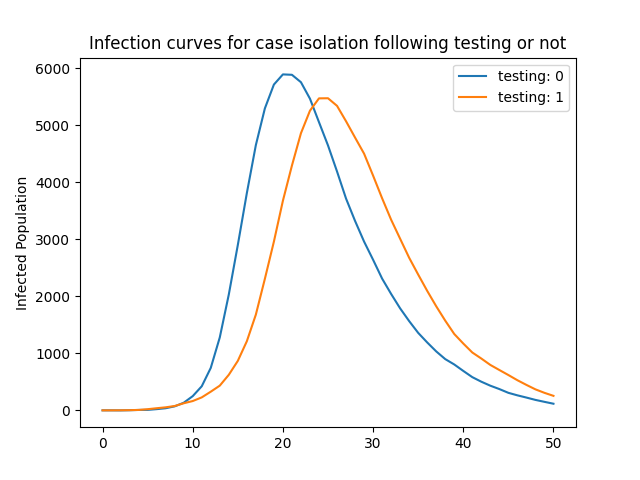
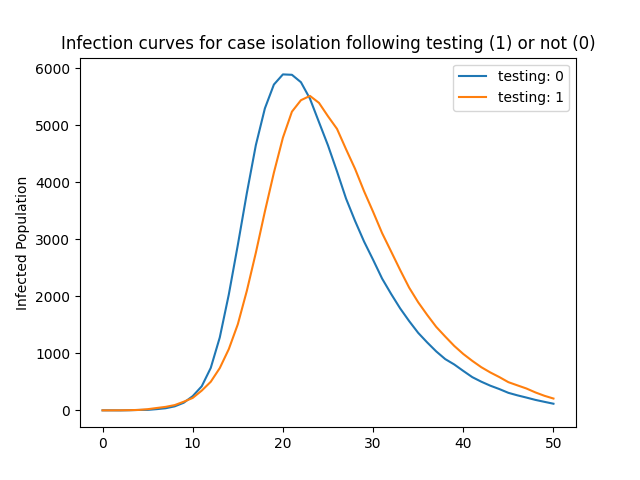
Clean up parameters and functions and more realistic testing parameters

diff --git a/pyEpiabm/pyEpiabm/sweep/host_progression_sweep.py b/pyEpiabm/pyEpiabm/sweep/host_progression_sweep.py
@@ -333,26 +333,20 @@ class HostProgressionSweep(AbstractSweep):
               intervention_params.keys():
                 testing_params = Parameters.instance().\
                     intervention_params['testing']
-                testing_prob_care_home = testing_params['testing_sympt'][0]
-                testing_prob_key_worker = testing_params['testing_sympt'][1]
-                testing_prob_general_pop = testing_params['testing_sympt'][2]
-                testing_type_care_home = testing_params['sympt_pcr'][0]
-                testing_type_key_worker = testing_params['sympt_pcr'][1]
-                testing_type_general_pop = testing_params['sympt_pcr'][2]
                 r = random.random()
                 type_r = random.random()
 
                 if (person.is_symptomatic() and
                    person.date_positive is None):
                     if person.care_home_resident:
-                        test_probability = testing_prob_care_home
-                        type_probability = testing_type_care_home
+                        test_probability = testing_params['testing_sympt'][0]
+                        type_probability = testing_params['sympt_pcr'][0]
                     elif person.key_worker:
-                        test_probability = testing_prob_key_worker
-                        type_probability = testing_type_key_worker
+                        test_probability = testing_params['testing_sympt'][1]
+                        type_probability = testing_params['testing_sympt'][2]
                     else:
-                        test_probability = testing_prob_general_pop
-                        type_probability = testing_type_general_pop
+                        test_probability = testing_params['testing_sympt'][2]
+                        type_probability = testing_params['sympt_pcr'][2]
 
                     if r < test_probability:
                         if type_r < type_probability:
@@ -388,18 +382,6 @@ class HostProgressionSweep(AbstractSweep):
                intervention_params.keys():
                 testing_params = Parameters.instance().\
                     intervention_params['testing']
-                testing_prob_care_home = testing_params[
-                    'testing_asympt_uninf'][0]
-                testing_prob_key_worker = testing_params[
-                    'testing_asympt_uninf'][1]
-                testing_prob_general_pop = testing_params[
-                    'testing_asympt_uninf'][2]
-                testing_type_care_home = testing_params[
-                    'asympt_uninf_pcr'][0]
-                testing_type_key_worker = testing_params[
-                    'asympt_uninf_pcr'][1]
-                testing_type_general_pop = testing_params[
-                    'asympt_uninf_pcr'][2]
                 for item in person_list:
                     cell = item[0]
                     person = item[1]
@@ -410,14 +392,20 @@ class HostProgressionSweep(AbstractSweep):
                     type_r = random.random()
 
                     if person.care_home_resident:
-                        test_probability = testing_prob_care_home
-                        type_probability = testing_type_care_home
+                        test_probability = testing_params[
+                            'testing_asympt_uninf'][0]
+                        type_probability = testing_params[
+                            'asympt_uninf_pcr'][0]
                     elif person.key_worker:
-                        test_probability = testing_prob_key_worker
-                        type_probability = testing_type_key_worker
+                        test_probability = testing_params[
+                            'testing_asympt_uninf'][1]
+                        type_probability = testing_params[
+                            'asympt_uninf_pcr'][1]
                     else:
-                        test_probability = testing_prob_general_pop
-                        type_probability = testing_type_general_pop
+                        test_probability = testing_params[
+                            'testing_asympt_uninf'][2]
+                        type_probability = testing_params[
+                            'asympt_uninf_pcr'][2]
 
                     if (r < test_probability and
                        person.date_positive is None):

diff --git a/pyEpiabm/pyEpiabm/intervention/disease_testing.py b/pyEpiabm/pyEpiabm/intervention/disease_testing.py
@@ -36,30 +36,30 @@ class DiseaseTesting(AbstractIntervention):
             num_lft = 0
             while (num_pcr < self.testing_capacity[0] and not
                    cell.PCR_queue.empty()):
-                r = random.random()
                 person = cell.PCR_queue.get()
                 num_pcr += 1
-                if person.is_infectious():
-                    if r > self.false_negative[0]:
-                        person.date_positive = time
-                        self._population.test_count[0] += 1
-                else:
-                    if r < self.false_positive[0]:
-                        person.date_positive = time
-                        self._population.test_count[1] += 1
+                self.do_testing(time, person, 0)
             while (num_lft < self.testing_capacity[1] and not
                    cell.LFT_queue.empty()):
-                r = random.random()
                 person = cell.LFT_queue.get()
                 num_lft += 1
-                if person.is_infectious():
-                    if r > self.false_negative[1]:
-                        person.date_positive = time
-                        self._population.test_count[0] += 1
-                else:
-                    if r < self.false_positive[1]:
-                        person.date_positive = time
-                        self._population.test_count[1] += 1
+                self.do_testing(time, person, 1)
+
+    def do_testing(self, time, person, index):
+        """ Method to detemine whether an individual tests positive
+        depending on the false positive and false negative rates for
+        PCR tests (index = 0) or LFTs (index = 1).
+
+        """
+        r = random.random()
+        if person.is_infectious():
+            if r > self.false_negative[index]:
+                person.date_positive = time
+                self._population.test_count[0] += 1
+        else:
+            if r < self.false_positive[index]:
+                person.date_positive = time
+                self._population.test_count[1] += 1
 
     def turn_off(self):
         for cell in self._population.cells:

diff --git a/pyEpiabm/pyEpiabm/intervention/case_isolation.py b/pyEpiabm/pyEpiabm/intervention/case_isolation.py
@@ -57,6 +57,11 @@ class CaseIsolation(AbstractIntervention):
                                     self._population.test_isolate_count[1] += 1
 
     def person_selection_method(self, person):
+        """ Method to determine whether a person is eligible for isolation
+        based on whether they are symptomatic or have tested positive depending
+        on the value of the use_testing parameter.
+
+        """
         if self.use_testing == 0:
             return person.is_symptomatic()
         else:

diff --git a/python_examples/intervention_example/disease_testing_simulation_flow.py b/python_examples/intervention_example/disease_testing_simulation_flow.py
@@ -111,7 +111,7 @@ for i in range(len(parameter_values)):
         int(label[i])))
 
 plt.legend()
-plt.title("Infection curves for case isolation following testing or not")
+plt.title("Infection curves for case isolation following testing (1) or not (0)")
 plt.ylabel("Infected Population")
 plt.savefig(
     os.path.join(os.path.dirname(__file__),

diff --git a/pyEpiabm/pyEpiabm/tests/test_unit/test_intervention/test_testing.py b/pyEpiabm/pyEpiabm/tests/test_unit/test_intervention/test_testing.py
@@ -71,7 +71,6 @@ class TestDiseaseTesting(TestPyEpiabm):
         self.cell.enqueue_LFT_testing(self.person2)
 
         self.testing(time=1.0)
-        self.assertEqual(mock_random.call_count, 2)
 
         self.assertEqual(self.cell.PCR_queue.qsize(), 0)
         self.assertEqual(self.cell.LFT_queue.qsize(), 0)
